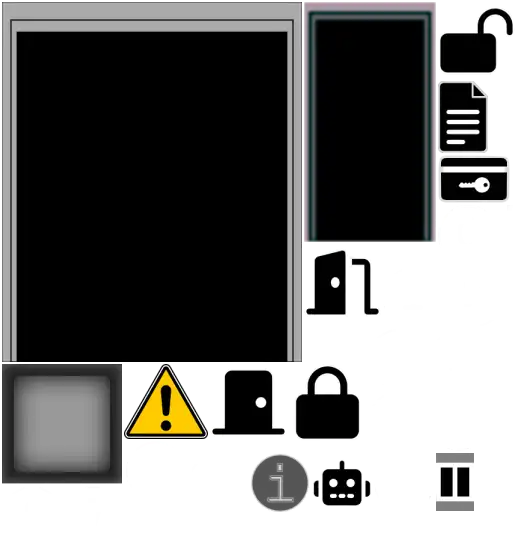
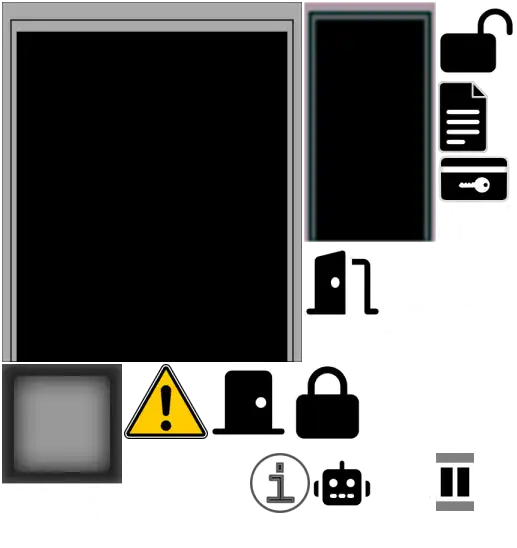
feat: less blue floor + un-invert decor info

Changed region(s): [[0.4642, 0.8066, 0.619, 0.9617]]

diff --git a/npc-cli/world/Floor.jsx b/npc-cli/world/Floor.jsx
@@ -77,7 +77,7 @@ export default function Floor(props) {
       ct.setTransform(worldToCanvas, 0, 0, worldToCanvas, -gm.pngRect.x * worldToCanvas, -gm.pngRect.y * worldToCanvas);
 
       // floor
-      drawPolygons(ct, gm.hullPoly.map(x => x.clone().removeHoles()), ['#191920', null]);
+      drawPolygons(ct, gm.hullPoly.map(x => x.clone().removeHoles()), ['#19191d', null]);
       // drawPolygons(ct, gm.hullPoly.map(x => x.clone().removeHoles()), ['#141414', null]);
       // nav
       const triangles = gm.navDecomp.tris.map(tri => new Poly(tri.map(i => gm.navDecomp.vs[i])));
